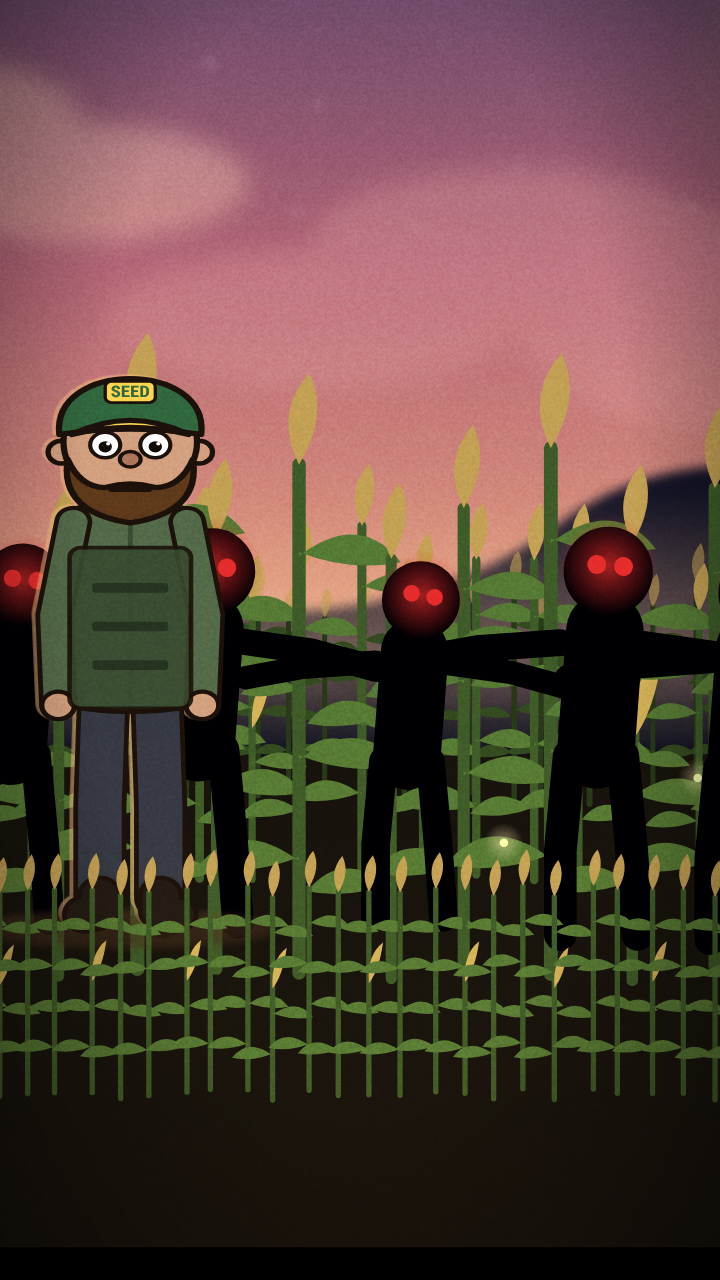
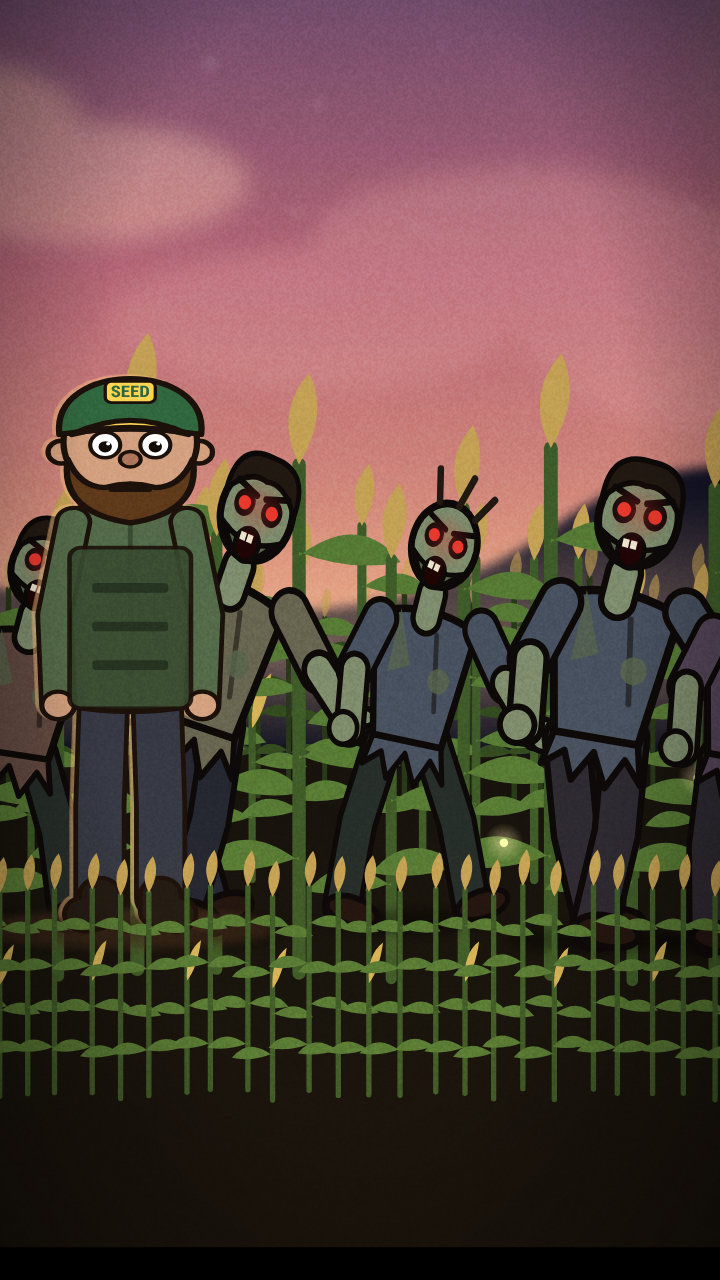
2.5D: perspective lane set (farm v=lane) with depth-placed cast and crowds, near-layer foreground parallax, orbit/travel/crane cameras; harvest_01 mixes flat 2D and 2.5D shots
Claude-Session: https://claude.ai/code/session_01AhwUxu1FBH8sDaZQZihRT9

Changed region(s): [[0.2444, 0.3438, 1.0, 0.75], [0.0, 0.4062, 0.1222, 0.7188]]

diff --git a/studio/long/farm25.js b/studio/long/farm25.js
@@ -1,0 +1,31 @@
+/* ===== farm25: 2.5D for THE LAST HARVEST.  LOC.farm v='lane' = a dirt lane in one-point perspective (vanishing point VPX,VPY), corn rows and fence posts
+   receding in depth, the barn at the end of the lane, blurred foreground stalks on the near layer (they slide faster than the world: real parallax).
+   Mixed with the flat side-on sets (yard / porch / barn) that stay 2D.  Depth z: 1 = near plane (y=GY), larger = farther.  Python helper: farmlib.lane(X,z). ===== */
+const LVPX=640,LVPY=398,LGY=720,lx=(X,z)=>LVPX+X/z,ly=z=>LVPY+(LGY-LVPY)/z;
+const _farm=LOC.farm;
+LOC.farm=(Z,p)=>{
+ if(p.v!=='lane'){const up=_farm(Z,p);
+  if(p.v==='yard'&&p.fgdepth!==false){const n=G(Z.near,{style:'filter:blur(5px)'});for(let i=0;i<9;i++){const x=(i<5?-40+i*45:1060+(i-5)*50)+rnd(i+3)*20;fCorn(n,x,760,230+rnd(i)*80,i,false)}
+   const sw=n;return (u,t,bt)=>{up&&up(u,t,bt);A(sw,{transform:`translate(${Math.sin(t*1.1)*3} 0)`})}}
+  return up}
+ const f=G(Z.far),m=G(Z.mid),n=G(Z.near);const upd=[];
+ R(f,-200,-100,1680,900,p.sky||'url(#gSkySoft)');fStars(f,30,200);fMoon(f,p.moonx||900,p.moony||150);fCloud(f,300,160,560,'#ffc9a8',.38);fCloud(f,980,230,640,'#e79a9a',.32);
+ P(f,'M-200,404 Q100,330 380,392 T800,372 T1200,396 T1500,380 L1500,420 L-200,420Z','#2a2744');R(f,-200,360,1680,70,'url(#gHaze)');A(f,{style:'filter:blur(3px)'});
+ R(m,-200,LVPY-2,1680,500,'#33281a');R(m,-200,LVPY-2,1680,500,'url(#gGroundShade)',{opacity:.7});
+ const far=G(m,{style:'filter:blur(1.6px)'});const bs=.2;const bg=G(far,{transform:`translate(${LVPX-70} ${LVPY+2}) scale(${bs}) translate(-120 -600)`});fBarn(bg,70,600,p);fSilo(G(far,{transform:`translate(${LVPX+60} ${LVPY+2}) scale(${bs}) translate(-500 -600)`}),500,600);
+ R(m,-200,LVPY-6,1680,18,'url(#gHaze)',{opacity:.8});
+ P(m,`M${LVPX-6},${LVPY} L${LVPX+6},${LVPY} L${LVPX+360},780 L${LVPX-360},780Z`,'#5a4630');P(m,`M${LVPX-6},${LVPY} L${LVPX+6},${LVPY} L${LVPX+90},780 L${LVPX-90},780Z`,'#4a3a26',{opacity:.5});
+ for(const sx of[-1,1]){for(const o of[-120,120]){L(m,LVPX+sx*o*0+o*.0,LVPY,LVPX+o*3.1,780,'#3a2c1a',6,{opacity:.55})}}
+ const zs=[];for(let z=15;z>=1.15;z/=1.22)zs.push(z);
+ for(const z of zs){const y=ly(z),k=1/z;
+  for(const sx of[-1,1]){
+   for(let r=0;r<4;r++){const X=sx*(430+r*120),x=lx(X,z);if(x<-120||x>1400)continue;fCorn(m,x,y,230*k*(r?1.05:1)*(.9+rnd(r*9+z)*.2),Math.floor(z*7+r),r>2)}
+   const fx=lx(sx*350,z);R(m,fx-5*k,y-80*k,10*k,80*k,'#5c4630',{stroke:FARM_INK,'stroke-width':Math.max(1,2*k)});
+  }
+  if(z<6)R(m,lx(-350,z),y-62*k,lx(350,z)-lx(-350,z),0,'none')}
+ for(const sx of[-1,1]){for(const yy of[.5,.28]){L(m,lx(sx*350,14),ly(14)-80/14*yy*2.2,lx(sx*350,1.15),ly(1.15)-80/1.15*yy*2.2,'#6a5438',3.2)}}
+ const lamp=G(m);const lz=3.2,lxp=lx(-330,lz),lyp=ly(lz);R(lamp,lxp-4,lyp-230/lz,8,230/lz,'#3a3226');C(lamp,lxp,lyp-230/lz,150/lz*1.6,'url(#gLamp)',{opacity:.5});C(lamp,lxp,lyp-230/lz,6,'#fff3c0');
+ const ff=fFirefly(G(m),12);upd.push((u,t)=>ff(t));
+ const nr=G(n,{style:'filter:blur(6px)'});for(let i=0;i<5;i++){fCorn(nr,-60+i*34,790,360+rnd(i)*80,i,false);fCorn(nr,1340-i*34,790,360+rnd(i+5)*80,i+9,false)}
+ upd.push((u,t)=>A(nr,{transform:`translate(${Math.sin(t*1.2)*5} 0)`}));
+ return (u,t,bt)=>upd.forEach(fn=>fn(u,t,bt))};

diff --git a/studio/long/core9.js b/studio/long/core9.js
@@ -24,6 +24,8 @@ function camera(kind,u,bt){let dx=0,dy=0,s=1,rot=0,blur=0;const e=u;
   case 'tilt_up':dy=lerp(-10,10,e);s=1.02;break; case 'tilt_down':dy=lerp(10,-10,e);s=1.02;break;
   case 'drift':dx=Math.sin(e*Math.PI)*8;dy=Math.cos(e*2.2)*4;s=1.02+.015*e;break;
   case 'hand':dx=Math.sin(bt*1.7)*3.2+Math.sin(bt*4.1)*1.3;dy=Math.cos(bt*1.3)*2.6+Math.sin(bt*3.3)*1;rot=Math.sin(bt*.9)*.25;s=1.035+.02*e;break;   // handheld (real life)
+  case 'orbit_l':dx=lerp(-30,30,e);rot=lerp(-.5,.5,e);s=1.05;break; case 'orbit_r':dx=lerp(30,-30,e);rot=lerp(.5,-.5,e);s=1.05;break;
+  case 'travel':dx=lerp(-12,12,e);s=1+.2*e;break; case 'crane_up':dy=lerp(18,-18,e);s=1.04+.06*e;break;
   case 'whip':{const k=Math.max(0,1-bt/.3);dx=60*k*k;blur=4*k;s=1.02+.03*e;break}
   case 'punch':s=1+.03*Math.max(0,1-bt/.3);break;
  }return {dx,dy,s,rot,blur}}

diff --git a/studio/long/engine9.html b/studio/long/engine9.html
@@ -34,6 +34,7 @@ html,body{margin:0;background:#000}
 <script src="fx9.js"></script>
 <script src="farm9.js"></script>
 <script src="farmcast9.js"></script>
+<script src="farm25.js"></script>
 <script src="visual9.js"></script>
 <script src="core9.js"></script>
 </body></html>

diff --git a/studio/long/arcs/harvest/harvest_01.py b/studio/long/arcs/harvest/harvest_01.py
@@ -11,12 +11,12 @@ P.B(S([('junie',"Grandma. The corn is whispering again.","ยาย ข้าว
 P.radio_open();TH.append("สวัสดีตอนเย็นชาวฮอลโลว์ครีก นี่คือเก็บเกี่ยวครั้งสุดท้าย ตอนที่หนึ่งจากสาม: ข้าวโพด")
 P.B(S([('ruth',"Corn doesn't whisper, Junie. Corn rustles.","ข้าวโพดไม่กระซิบหรอก จูนี่ มันแค่ส่งเสียงซู่ซ่า")]),cuf('ruth','calm',v='porch'),mood='warm',sfx=[('rustle',.1)])
 P.B(S([('junie',"Then why did it say my name?","แล้วทำไมมันเรียกชื่อหนูล่ะ?")]),cuf('junie','scared',v='porch'),mood='creep',sfx=[('stab',.5)])
-P.B(S([('hank',"Ma'am. The corn is walking.","คุณนายครับ ข้าวโพดมันเดินได้")]),farm('field',[HORDE(7,300,1000),person('hank','scared',500)],x=640,y=470,z=.95,fgh=120),mood='creep',cam='push_in',sfx=[('horde',.2)])
+P.B(S([('hank',"Ma'am. The corn is walking.","คุณนายครับ ข้าวโพดมันเดินได้")]),farm('lane',crowd(9,-190,190,2.8,10,seed=5)+[at('hank',-170,2.0,'scared')],x=640,y=430,z=1.0),mood='creep',cam='travel',sfx=[('horde',.2)])
 P.B(S([('ruth',"Hank. How many?","แฮงก์ กี่ตัว?"),('hank',"...All of them.","...ทั้งหมดเลยครับ")]),duo('ruth','hank','angry','scared',v='yard'),mood='creep',sfx=[('heartbeat',.2)])
 P.B(S([('eli',"Nobody panic. I have a plan.","ใครอย่าตกใจ ผมมีแผน"),('eli',"It's called Scarecrow Two-Point-Oh.","เรียกว่า หุ่นไล่กาเวอร์ชันสองจุดศูนย์")]),cuf('eli','grin',v='yard'),mood='comic',sfx=[('click',.3)])
 P.B(S([('ruth',"Where did you get my radio?","เอาวิทยุฉันมาจากไหน?"),('eli',"It's a loan. Mostly.","ยืมมาครับ ส่วนใหญ่น่ะ")]),farm('yard',[person('ruth','angry',470),prop('scarecrow',700,FOOT,1.0),person('eli','smile',900)],x=690,y=455,z=.7),mood='comic',sfx=[('boing','e-0.5')])
 P.B(S([('hank',"Why am I carrying it?","ทำไมผมต้องเป็นคนแบก?"),('eli',"You're tall. And brave.","คุณตัวสูง แล้วก็กล้า"),('hank',"I am neither.","ผมไม่ใช่ทั้งสองอย่าง")]),cuf('hank','scared',v='yard'),mood='comic',sfx=[('sigh','e-0.4')])
-P.B(S([('eli',"Three. Two. One. Polka.","สาม สอง หนึ่ง โพลก้า")]),farm('field',[HORDE(8,260,1020,to=40),prop('scarecrow',640,655,1.15)],x=640,y=470,z=.92,fgh=120),mood='comic',sfx=[('polka',.5),('rimshot','e-0.3')],fx=[sticker(1.0,'POLKA!',x=225,y=170,rot=-6,size=58,c='#ffcf6a',dur=1.6)])
+P.B(S([('eli',"Three. Two. One. Polka.","สาม สอง หนึ่ง โพลก้า")]),farm('lane',crowd(10,-200,200,3.4,10,seed=9)+[dict(k='prop',t='scarecrow',x=lane(0,2.0)['x'],y=lane(0,2.0)['y'],s=1.5/2.0)],x=640,y=430,z=1.0),mood='comic',cam='orbit_l',sfx=[('polka',.5),('rimshot','e-0.3')],fx=[sticker(1.0,'POLKA!',x=225,y=170,rot=-6,size=58,c='#ffcf6a',dur=1.6)])
 P.B(S([('junie',"They're dancing.","พวกมันกำลังเต้นรำ")]),cuf('junie','shock',v='yard'),mood='comic',sfx=[('polka',.0)])
 P.B(S([('eli',"...They're dancing?!","...พวกมันเต้นจริงเหรอ?!")]),cuf('eli','shock',v='yard'),mood='comic',sfx=[('boing',.2)])
 P.B(S([('ruth',"Rule one. Sound leads them. So we lead the sound.","กฎข้อแรก เสียงนำทางพวกมัน เราก็เลยนำเสียงไปทางอื่น")]),card('rulecard',n=1,head='FARM RULE',lines=['SOUND','LEADS THEM','SO WE LEAD IT'],bg=dict(loc='farm',v='yard',z=1.6,x=500,y=430)),mood='warm',sfx=[('bell',0)])

diff --git a/studio/long/farmlib.py b/studio/long/farmlib.py
@@ -15,6 +15,17 @@ NAMES_EN=dict(ruth='Ruth',eli='Eli',junie='Junie',hank='Hank',radio='Radio');NAM
 SC=dict(ruth=.86,eli=.74,junie=.6,hank=.98)
 def hz(n,x0,x1,y=590,s=.9,**k):
     k.setdefault('human',True);return _hz(n,x0,x1,y=y,s=s,**k)
+def lane(X,z):
+    """2.5D lane (farm v='lane'): lateral offset X (world px at z=1), depth z (1 near .. 15 far) -> dict(x,y,s) for person()/prop()/hz"""
+    return dict(x=640+X/z,y=398+(720-398)/z,s=1.0/z)
+def at(who,X,z,expr='calm',**k):
+    L=lane(X,z);return person(who,expr,L['x'],L['y'],SC[who]*1.0/z*1.5,**k)
+def crowd(n,X0,X1,z0,z1,seed=3,**k):
+    """n zombies spread in depth between z0 (near) and z1 (far) and laterally X0..X1"""
+    out=[]
+    for i in range(n):
+        t=i/max(1,n-1);z=z0+(z1-z0)*((i*0.618)%1);X=X0+(X1-X0)*t;L=lane(X,z);out.append(hz(1,L['x'],L['x'],y=L['y'],s=2.7/z,seed=seed+i*7,jit=0,yj=0,**k))
+    return sorted(out,key=lambda a:a['y'])
 FOOT=640
 def person(who,expr='calm',x=640,y=FOOT,s=None,talk=False,pose='stand',**k):
     a=dict(k=who,view='front',pose=pose,expr=expr,x=x,y=y,s=s or SC[who],talk=who if talk else False,bob=1.1,ph=x*.011,shadow=1,rim='rgba(255,190,120,.55)')
